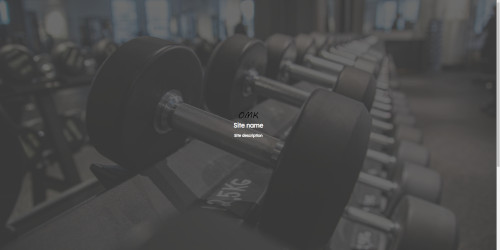
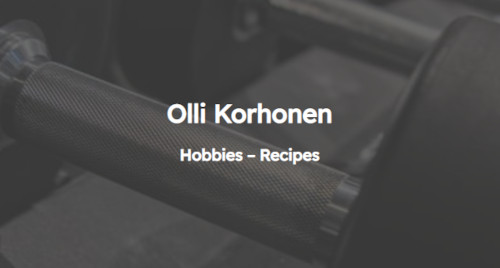
add images edit portfolio

diff --git a/lampotyo.html b/lampotyo.html
@@ -11,7 +11,8 @@
     <link rel="stylesheet" href="styles.css">
     <link rel="preconnect" href="https://fonts.googleapis.com">
     <link rel="preconnect" href="https://fonts.gstatic.com" crossorigin>
-    <link href="https://fonts.googleapis.com/css2?family=Kalam:wght@300&family=Montserrat&display=swap" rel="stylesheet">
+    <link href="https://fonts.googleapis.com/css2?family=Kalam:wght@300&family=Montserrat&display=swap"
+        rel="stylesheet">
     <link href="fontawesome-free-6.1.1-web//css/all.css" rel="stylesheet">
     <script src="https://kit.fontawesome.com/a312adc515.js" crossorigin="anonymous"></script>
 </head>
@@ -36,22 +37,29 @@
             <div>
                 <img class="documentation-image" src="images/lampo.jpg" alt="lampo">
             </div>
-            <p>Lämpötyö.fi is website for plumber entrepreneur.There is possible to ask a quote for LVI-works. 
+            <p>
+                Lämpötyö.fi is website for plumber entrepreneur.There is possible to ask a quote for LVI-works.
             </p>
-            <p>Visit on website <a target="_blank" href="https://www.lampotyo.fi/">lämpötyö</a></p>
         </div>
         <div class="structure-content">
             <h2>Structure</h2>
             The website is pretty easy, so there are not many pages. On the front page,
-             there are two cards with a link to another page.
-             The website includes, also a privacy policy, which you can find under a contact form.
+            there are two cards with a link to another page.
+            The website includes, also a privacy policy, which you can find under a contact form.
+            On the footer, you can find contact information. There is also the form to send messages.
+            <img class="documentation-image" src="images/card.jpg" alt="card">
+            <img class="documentation-image" src="images/footer.jpg" alt="footer">
+            <br>
+            <br>
+            <a target="_blank" href="https://www.lampotyo.fi/">Visit on website lämpötyö</a>
+
         </div>
         <div class="learned-content">
             <h2>What I have learned?</h2>
             <p>
-                During the project, 
+                During the project,
                 I improved my theme development skills to become a better WordPress developer.
-                I am also learned more about a search engine optimization. 
+                I am also learned more about a search engine optimization.
             </p>
         </div>
 
@@ -63,9 +71,12 @@
         <p>0400 193 192</p>
 
         <div class="social">
-            <a href="https://www.linkedin.com/in/olli-korhonen-99850015a/" class="social-item" target="_blank"><i class="fa-brands fa-linkedin-in"></i></a>
-                    <a href="https://github.com/ollikor" class="social-item" target="_blank"><i class="fa-brands fa-github"></i></a>
-                    <a href="https://www.instagram.com/olli_korhonen92/" class="social-item" target="_blank"><i class="fa-brands fa-instagram"></i></a>
+            <a href="https://www.linkedin.com/in/olli-korhonen-99850015a/" class="social-item" target="_blank"><i
+                    class="fa-brands fa-linkedin-in"></i></a>
+            <a href="https://github.com/ollikor" class="social-item" target="_blank"><i
+                    class="fa-brands fa-github"></i></a>
+            <a href="https://www.instagram.com/olli_korhonen92/" class="social-item" target="_blank"><i
+                    class="fa-brands fa-instagram"></i></a>
         </div>
     </footer>
 

diff --git a/index.html b/index.html
@@ -174,16 +174,15 @@
                     <h4>6/2019-2/2020</h4>
                     <h4>6/2013-8/2015</h4>
                     <p>
-                        At HP-Kasetti I did tinsmith works.
-                        A metal roofs, metal moldings and rainspouts.
+                        At HP-Kasetti Oy, I did tinsmith works. Metal roofs, metal moldings, and rainspouts.
                     </p>
                 </div>
 
                 <div class="work-item">
                     <h3>Iotas Oy 5/2018-11/2018</h3>
                     <p>
-                        At Iotas Oy my job description was UX and software development trainee.
-                        I made mobile application prototype with Xamarin.Forms.
+                        At Iotas Oy, my job description was UX- and software development trainee. 
+                        I made a mobile application prototype with Xamarin.Forms.
                     </p>
                 </div>
 
@@ -191,9 +190,8 @@
                     <h3>KOME Oy 8/2o12-2/2013
                     </h3>
                     <p>
-                        At KOME I did little everything.
-                        Welding, drilling, I drove by forklift, cleaning and little
-                        electrical works.
+                        At the Kome Oy, I made little everything. 
+                        I did Welding, drilling, cleaning, driving by forklift, and a little bit of electrical work.
                     </p>
                 </div>
 
@@ -201,7 +199,7 @@
                     <h3>Kiviteos Oy 2/2012-7/2012
                     </h3>
                     <p>
-                        At Kiviteos I did a yard stones.
+                        At the Kiviteos Oy, I have made yard stones.
                     </p>
                 </div>
             </div>
@@ -211,9 +209,8 @@
                 <div class="work-item">
                     <h3>University of applied sciences 8/2015-4/2019</h3>
                     <p>
-                        In august 2015 I started study at University of applied
-                        sciences in Jyväskylä. My orientation was mediatecnique
-                        and I graduated 4/2019.
+                        In August 2015, I started to study at the University of applied sciences in Jyväskylä. 
+                        My orientation was media technique, and I graduated in 4/2019.
                     </p>
                 </div>
                     
@@ -221,9 +218,8 @@
                     <h3>Military service 7/2011-1/2012
                     </h3>
                     <p>
-                        In July 2011 I went at military in Kajaani.
-                        My comppany was first jaeger comppany.
-                        My military service took six month.
+                        In July 2011, I went to the military in Kajaani. 
+                        My comppany was first jaeger comppany. My military service took six months.
                     </p>
                 </div>
 
@@ -231,8 +227,7 @@
                     <h3>Machine and metalwork education 2008-2011
                     </h3>
                     <p>
-                        2011 I complited this education in Viitasaari.
-                        My orientation was welder.
+                        In 2011 I completed this education in Viitasaari. My orientation was a welder.
                     </p>
                 </div>
             </div>

diff --git a/blog.html b/blog.html
@@ -17,7 +17,7 @@
 </head>
 
 <body>
-    
+
     <header class="secondary-header">
         <h1 class="header-title">Blog</h1>
         <p class="header-title-2">Wordpress</p>
@@ -27,7 +27,7 @@
             <p class="header-description">Web-developer</p>
         </div>
     </header>
-    
+
     <div class="documentation">
 
         <nav class="back-link">
@@ -36,17 +36,35 @@
 
         <div>
             <h2>Introduction</h2>
-           
+            <div>
+                <img class="documentation-image" src="images/blog.jpg" alt="blog">
+            </div>
+            <p>
+                This is my Wordpress theme development project.
+                Here you can find blog and recipes.
+            </p>
         </div>
         <div>
             <h2>Structure</h2>
-           
-            <h3>Components</h3>
+            <p>
+                There is navigation, which appears when the user scrolls down and disappears when the user scrolls up. 
+                The blog page and the recipe page have all the posts as cards. 
+                On the footer, there are page navigation and navigation to social media.
+            </p>
+            <img class="documentation-image" src="images/nav.jpg" alt="nav">
+    
+            <img class="documentation-image" src="images/posts.jpg" alt="posts">
+            <img class="documentation-image" src="images/recipes.jpg" alt="recipes">
+            <img class="documentation-image" src="images/recipe.jpg" alt="recipe">
+            <img class="documentation-image" src="images/blogfooter.jpg" alt="blogfooter">
+            <a target="_blank" href="https://ollikorhonen.fi/blog">Visit on Blog website</a>
+            <a target="_blank" href="https://github.com/ollikor/wp_blog">Blog on Github</a>            
         </div>
         <div>
             <h2>What I have learned?</h2>
             <p>
-               
+                During this project, I learned how to make WordPress themes. 
+                I have learned also how to use custom post types and taxonomies.
             </p>
         </div>
 
@@ -58,9 +76,12 @@
         <p>0400 193 192</p>
 
         <div class="social">
-            <a href="https://www.linkedin.com/in/olli-korhonen-99850015a/" class="social-item" target="_blank"><i class="fa-brands fa-linkedin-in"></i></a>
-                    <a href="https://github.com/ollikor" class="social-item" target="_blank"><i class="fa-brands fa-github"></i></a>
-                    <a href="https://www.instagram.com/olli_korhonen92/" class="social-item" target="_blank"><i class="fa-brands fa-instagram"></i></a>
+            <a href="https://www.linkedin.com/in/olli-korhonen-99850015a/" class="social-item" target="_blank"><i
+                    class="fa-brands fa-linkedin-in"></i></a>
+            <a href="https://github.com/ollikor" class="social-item" target="_blank"><i
+                    class="fa-brands fa-github"></i></a>
+            <a href="https://www.instagram.com/olli_korhonen92/" class="social-item" target="_blank"><i
+                    class="fa-brands fa-instagram"></i></a>
         </div>
     </footer>
 

diff --git a/vr.html b/vr.html
@@ -13,7 +13,7 @@
     <link rel="preconnect" href="https://fonts.gstatic.com">
     <link href="https://fonts.googleapis.com/css2?family=Kalam:wght@300&display=swap" rel="stylesheet">
     <link href="https://fonts.googleapis.com/css2?family=Montserrat:wght@300&display=swap" rel="stylesheet">
-    <link href="fontawesome-free-6.1.1-web//css/all.css" rel="stylesheet">
+    <script src="https://kit.fontawesome.com/a312adc515.js" crossorigin="anonymous"></script>
 </head>
 
 <body>
@@ -33,21 +33,26 @@
         </nav>
         <div>
             <h2>Introduction</h2>
-            
             <p> 
-                
-
+                VR application is a small React Bootstrap application for searching incoming and outcoming trains at the selected station.
             </p>
         </div>
         <div>
             <h2>Structure</h2>
-            
-            <h3>Components</h3>
+            <p>
+                There is one search input for searching stations. Any station which matches with text will display down, and it is possible to use arrow keys to select a station. If there aren't any trains at the station, the application will give an error to you. If the search succeeds, trains will display on the list. All incoming trains will display on the Arrival tab and all outcoming trains on the departure tab. If the train is late, the current time will show in red, and the scheduled time will be below inside brackets. If the train schedule has been canceled, train information is gray, and the "canceled" text appears below in red.
+            </p>
+            <img src="images/search.jpg" class="documentation-image" alt="search" />
+            <img src="images/searchResult.jpg" class="documentation-image" alt="searchResult" />
+            <img src="images/error.jpg" class="documentation-image" alt="error" />
+            <a target="_blank" href="https://ollikor.github.io/VR-app/">Try VR-application</a>
+            <a target="_blank" href="https://github.com/ollikor/VR-app">VR-application on Github</a>
         </div>
         <div>
             <h2>What I have learned?</h2>
             <p>
-              
+                During the project, I improved my react.js skills how to do better structure to applicaton,
+                how to make application to match given documentation and how to fetch data from API.
             </p>
         </div>
 

diff --git a/githubapp.html b/githubapp.html
@@ -13,7 +13,7 @@
     <link rel="preconnect" href="https://fonts.gstatic.com">
     <link href="https://fonts.googleapis.com/css2?family=Kalam:wght@300&display=swap" rel="stylesheet">
     <link href="https://fonts.googleapis.com/css2?family=Montserrat:wght@300&display=swap" rel="stylesheet">
-    <link href="fontawesome-free-6.1.1-web//css/all.css" rel="stylesheet">
+    <script src="https://kit.fontawesome.com/a312adc515.js" crossorigin="anonymous"></script>
 </head>
 
 <body>
@@ -34,23 +34,21 @@
         </nav>
         <div>
             <h2>Introduction</h2>
-           
             <p> 
-               
+                GithubApiExample is a small react application for searching Github users' repositories and commits.
             </p>
         </div>
         <div>
             <h2>Structure</h2>
-           
-            <h3>Components</h3>
-        </div>
-        <div>
-            <h2>What I have learned?</h2>
             <p>
-                
+                There is one search input for searching repositories. If you try to search empty, user not found, repository not found, the application will show an error for you. If a search succeeds, repositories will show on the list. When the Github repository is selected, the application fetches the last ten commits and displays them on the page.
             </p>
+            <img src="images/githubsearch.jpg" class="documentation-image" alt="githubsearch" />
+            <img src="images/commits.jpg" class="documentation-image" alt="commits" />
+            <img src="images/notfound.jpg" class="documentation-image" alt="notfound" />
+            <a target="_blank" href="https://ollikor.github.io/GithubApiExample/">Try Github application</a>
+            <a target="_blank" href="https://github.com/ollikor/GithubApiExample">Github application on Github</a>
         </div>
-
     </div>
 
     <footer>

diff --git a/challenges.html b/challenges.html
@@ -39,24 +39,20 @@
                     allowfullscreen></iframe>
             </div>
             <p> 
-                Challenges application have created to count how many days
-                user have been successful with challenge. Application requires to
-                sign in to application. Authentication is created with AWS-Amplify.
+                "Challenges" application has been created to count how many days users have been successful with the challenge. 
+                The application requires you to sign in to the application. 
+                Authentication has been created with AWS-Amplify.
 
             </p>
-        </div>
-        <div>
-            <h2>Structure</h2>
-            <img class="card-image" src="images/structure.PNG" alt="menu">
-            <figcaption class="figcaption">Application structure</figcaption>
-            <h3>Components</h3>
+            <a target="_blank" href="https://github.com/ollikor/Challenges">Challenges application on Github</a>
+        
         </div>
         <div>
             <h2>What I have learned?</h2>
             <p>
                 During this project, I learned how to build a Progressive Web Application with AWS. 
                 Application is a PWA application created with React. 
-                An application was hosted using AWS-Amplify and Cognito user pool has been used for the authentication. 
+                An application was hosted using AWS-Amplify, and Cognito user pool has been used for the authentication. 
                 All data were saved to DynamoDB via AWS-AppSync GraphQL API.
             </p>
         </div>

diff --git a/styles.css b/styles.css
@@ -4,6 +4,7 @@
     --secondary-text: rgb(255, 255, 255);
     --primary-box-shadow: rgb(255, 255, 255);
     --secondary-box-shadow: rgb(53, 53, 53);
+    --footer-border: rgb(255, 238, 0);
     --primary-font-family: 'Montserrat', sans-serif;
     --secondary-font-family: 'Kalam', cursive;
 }
@@ -332,10 +333,12 @@ i {
 
 .documentation-image {
     width: 100%;
-    max-width: 500px;
 }
 
-
+.documentation a {
+    margin: 10px 0;
+    display: block;
+}
 
 
 
@@ -347,6 +350,7 @@ footer {
     max-width: 960px;
     padding: 10px 0;
     text-align: center;
+    border-bottom: 5px solid var(--footer-border);
     color: var(--secondary-text);
     background-color: var(--primary);
 }
